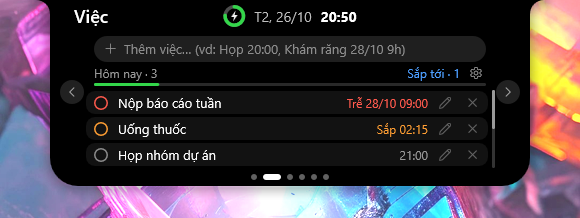
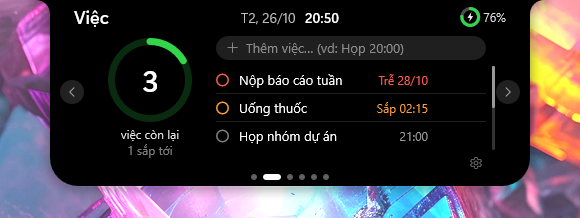
feat(tasks): the Tasks page as in the approved sample: a big progress ring with the count on the left, a flat list with hairlines on the right, edit and delete only on hover

diff --git a/src/render.rs b/src/render.rs
@@ -280,13 +280,14 @@ pub fn panel_size(page: Page) -> [f32; 2] {
 }
 /// Task list page.
 const INPUT_Y: f32 = 36.0;
-const INPUT_H: f32 = 26.0;
-const COUNT_Y: f32 = 66.0;
-const ROW_Y: f32 = 90.0;
-/// Under the counts: how much of today's list is done.
-const PROGRESS_Y: f32 = 83.0;
-/// A task row is also its tick, edit and delete buttons: 29 px high, drawn as a card.
-const ROW_H: f32 = 26.0;
+const INPUT_H: f32 = 24.0;
+/// The left column of the page (the ring of the day's progress and what it counts), then the
+/// right column (the add box and the list) from `LIST_X` on, as far as the content reaches.
+const HERO_W: f32 = 112.0;
+const LIST_X: f32 = HERO_W + 10.0;
+const ROW_Y: f32 = 66.0;
+/// A task is a plain row with a hairline under it, and its tick, edit and delete buttons: 28 px high.
+const ROW_H: f32 = 28.0;
 pub const LIST_ROWS: usize = 3;
 /// Weather page, logical px from the content's left / the panel's top. City line: the 24h and x
 /// buttons at its right end. Left block: the icon with the temperature beside it and the sky's
@@ -392,18 +393,20 @@ pub fn page_buttons(cx: f32, scale: f32, page: Page, rows: usize, scroll: usize,
     match page {
         Page::Music => out.extend(buttons(cx, scale, wide)),
         Page::Todo => {
-            out.push((Button::ListInput, r(cl, INPUT_Y, cw, INPUT_H)));
-            out.push((Button::ListClear, r(cl + cw - 26.0, INPUT_Y, 26.0, INPUT_H)));
-            out.push((Button::Gear(Card::Tasks), r(cl + cw - 20.0, COUNT_Y - 2.0, 20.0, 18.0)));
+            let (x0, rw) = (cl + LIST_X, cw - LIST_X);
+            out.push((Button::ListInput, r(x0, INPUT_Y, rw, INPUT_H)));
+            out.push((Button::ListClear, r(x0 + rw - 26.0, INPUT_Y, 26.0, INPUT_H)));
+            // The settings gear, small, under the last row.
+            out.push((Button::Gear(Card::Tasks), r(x0 + rw - 20.0, ROW_Y + ROW_H * LIST_ROWS as f32 + 4.0, 20.0, 18.0)));
             if settings == Some(Card::Tasks) {
-                out.push((Button::RemindStep(-1), r(cl + cw - 112.0, ROW_Y, 22.0, 22.0)));
-                out.push((Button::RemindStep(1), r(cl + cw - 24.0, ROW_Y, 22.0, 22.0)));
+                out.push((Button::RemindStep(-1), r(x0 + rw - 112.0, ROW_Y, 22.0, 22.0)));
+                out.push((Button::RemindStep(1), r(x0 + rw - 24.0, ROW_Y, 22.0, 22.0)));
             } else {
                 for (row, i) in (scroll..rows.min(scroll + LIST_ROWS)).enumerate() {
                     let y = ROW_Y + row as f32 * ROW_H;
-                    out.push((Button::ListToggle(i), r(cl, y, cw - 56.0, ROW_H)));
-                    out.push((Button::ListEdit(i), r(cl + cw - 54.0, y, 26.0, ROW_H)));
-                    out.push((Button::ListDelete(i), r(cl + cw - 26.0, y, 26.0, ROW_H)));
+                    out.push((Button::ListToggle(i), r(x0, y, rw - 56.0, ROW_H)));
+                    out.push((Button::ListEdit(i), r(x0 + rw - 54.0, y, 26.0, ROW_H)));
+                    out.push((Button::ListDelete(i), r(x0 + rw - 26.0, y, 26.0, ROW_H)));
                 }
             }
         }
@@ -562,6 +565,8 @@ const F_BADGE: usize = 11;
 const F_HEAD: usize = 12;
 const F_CLOCK: usize = 13;
 const F_CLOCK_BOLD: usize = 14;
+/// A page's big figure: the number in its ring.
+const F_FIGURE: usize = 15;
 /// Lyrics area beside the player, logical px: its top and bottom in the panel, the space each side
 /// of the thin divider after the player's controls, its right margin and its width. The margin
 /// stays wider than the pages' clip (PAGE_CLIP), with room for a last letter's ink past the box.
@@ -1184,6 +1189,7 @@ impl Renderer {
                 make(display, 18.0, DWRITE_FONT_WEIGHT_SEMI_BOLD)?,
                 make(display, 14.0, DWRITE_FONT_WEIGHT_NORMAL)?,
                 make(display, 14.0, DWRITE_FONT_WEIGHT_SEMI_BOLD)?,
+                make(display, 30.0, DWRITE_FONT_WEIGHT_SEMI_BOLD)?,
             ];
             self.fonts = Some((scale, set));
         }
@@ -2268,36 +2274,31 @@ impl Renderer {
                             }
                         }
                         Page::Todo => {
-                            draw_input(tr("Thêm việc… (vd: Họp 20:00, Khám răng 28/10 9h)", "Add a task… (e.g. Call 20:00, Dentist 28/10 9h)"))?;
+                            let (x0, xr) = (cl + LIST_X * s, cr);
+                            draw_input(tr("Thêm việc… (vd: Họp 20:00)", "Add a task… (e.g. Call 20:00)"))?;
                             let today = (lv.now / 10_000) as u32;
                             let (open, later) = if current { lv.counts } else { (0, 0) };
-                            let cy = COUNT_Y * s;
-                            text(&format!("{} · {open}", tr("Hôm nay", "Today")), F_LABEL, rect(cl, cy - 2.0 * s, cr, cy + 16.0 * s), lead, grey(0.6, a))?;
-                            text(&format!("{} · {later}", tr("Sắp tới", "Upcoming")), F_LABEL, rect(cl, cy - 2.0 * s, cr - 26.0 * s, cy + 16.0 * s), trail,
-                                if later > 0 { solid(BLUE, a) } else { grey(0.6, a) })?;
+                            // Left: the day's progress as a big ring with what is left in it.
+                            let hub = (cl + HERO_W / 2.0 * s, 80.0 * s);
+                            let done = v.todos.iter().filter(|t| t.done.is_some()).count();
+                            let frac = if v.todos.is_empty() { 0.0 } else { done as f32 / v.todos.len() as f32 };
+                            self.draw_ring_on(hub, 84.0 * s, 7.0 * s, frac, GREEN, color(GREEN.0 * 0.2, GREEN.1 * 0.2, GREEN.2 * 0.2, a), a)?;
+                            text(&open.to_string(), F_FIGURE, rect(hub.0 - 40.0 * s, hub.1 - 22.0 * s, hub.0 + 40.0 * s, hub.1 + 22.0 * s), center, grey(1.0, a))?;
+                            text(tr("việc còn lại", "tasks left"), F_LABEL, rect(cl, 126.0 * s, cl + HERO_W * s, 142.0 * s), center, grey(0.9, a))?;
+                            text(&format!("{later} {}", tr("sắp tới", "upcoming")), F_LABEL, rect(cl, 142.0 * s, cl + HERO_W * s, 158.0 * s), center, grey(0.5, a))?;
                             let open_set = settings == Some(Card::Tasks);
-                            // Progress of the list: done over all, a thin bar that fills as ticks are made.
-                            if !open_set && !v.todos.is_empty() {
-                                let done = v.todos.iter().filter(|t| t.done.is_some()).count();
-                                let (bt, bh) = (PROGRESS_Y * s, 3.0 * s);
-                                rt.FillRoundedRectangle(&rounded(rect(cl, bt, cr, bt + bh), bh / 2.0), &self.brush(grey(0.16, a))?);
-                                let frac = done as f32 / v.todos.len() as f32;
-                                if frac > 0.0 {
-                                    rt.FillRoundedRectangle(&rounded(rect(cl, bt, cl + (cr - cl) * frac, bt + bh), bh / 2.0), &self.brush(solid(GREEN, a))?);
-                                }
-                            }
                             if let Some(gb) = rect_of(Button::Gear(Card::Tasks)) {
                                 let hot = hovered == Some(Button::Gear(Card::Tasks));
-                                let (icon, c) = if open_set { (ICON_CHECK, solid(GREEN, a)) } else { (ICON_GEAR, grey(if hot { 1.0 } else { 0.6 }, a)) };
+                                let (icon, c) = if open_set { (ICON_CHECK, solid(GREEN, a)) } else { (ICON_GEAR, grey(if hot { 1.0 } else { 0.45 }, a)) };
                                 hover_disc(Button::Gear(Card::Tasks))?;
                                 micon("tasks-gear", icon, F_SMALL_ICON, gb, c)?;
                             }
                             if open_set {
-                                // Settings: the early reminder, stepped with − / +.
+                                // Settings: the early reminder, stepped with - / +.
                                 let y = ROW_Y * s;
-                                text(tr("Nhắc trước", "Remind before"), F_BODY, rect(cl, y, cr - 112.0 * s, y + 22.0 * s), lead, grey(0.9, a))?;
+                                text(tr("Nhắc trước", "Remind before"), F_BODY, rect(x0, y, xr - 112.0 * s, y + 22.0 * s), lead, grey(0.9, a))?;
                                 let value = if lv.remind_before == 0 { tr("Tắt", "Off").to_string() } else { format!("{} {}", lv.remind_before, tr("phút", "min")) };
-                                text(&value, F_BODY, rect(cr - 88.0 * s, y, cr - 26.0 * s, y + 22.0 * s), center, grey(1.0, a))?;
+                                text(&value, F_BODY, rect(xr - 88.0 * s, y, xr - 26.0 * s, y + 22.0 * s), center, grey(1.0, a))?;
                                 for (b, icon) in [(Button::RemindStep(-1), ICON_MINUS), (Button::RemindStep(1), ICON_PLUS)] {
                                     if let Some(sb) = rect_of(b) {
                                         rt.FillEllipse(&D2D1_ELLIPSE { point: Vector2 { X: (sb.left + sb.right) / 2.0, Y: (sb.top + sb.bottom) / 2.0 }, radiusX: 11.0 * s, radiusY: 11.0 * s },
@@ -2306,25 +2307,30 @@ impl Renderer {
                                     }
                                 }
                                 text(tr("Việc có giờ còn được nhắc đúng giờ", "Timed tasks also ring on time"), F_LABEL,
-                                    rect(cl, y + 26.0 * s, cr, y + 44.0 * s), lead, grey(0.5, a))?;
+                                    rect(x0, y + 26.0 * s, xr, y + 44.0 * s), lead, grey(0.5, a))?;
                             } else {
                                 if v.todos.is_empty() {
-                                    let mid = (cl + cr) / 2.0;
-                                    let ring = D2D1_ELLIPSE { point: Vector2 { X: mid, Y: (ROW_Y + 12.0) * s }, radiusX: 11.0 * s, radiusY: 11.0 * s };
+                                    let mid = (x0 + xr) / 2.0;
+                                    let ring = D2D1_ELLIPSE { point: Vector2 { X: mid, Y: (ROW_Y + 16.0) * s }, radiusX: 11.0 * s, radiusY: 11.0 * s };
                                     rt.DrawEllipse(&ring, &self.brush(grey(0.3, a))?, 1.5 * s, None);
-                                    text(ICON_CHECK, F_TINY_ICON, rect(mid - 11.0 * s, (ROW_Y + 1.0) * s, mid + 11.0 * s, (ROW_Y + 23.0) * s), center, grey(0.3, a))?;
-                                    text(tr("Chưa có việc nào", "No tasks yet"), F_BODY, rect(cl, (ROW_Y + 28.0) * s, cr, (ROW_Y + 46.0) * s), center, grey(0.7, a))?;
-                                    text(tr("Gõ vào ô trên rồi nhấn Enter", "Type above and press Enter"), F_LABEL, rect(cl, (ROW_Y + 46.0) * s, cr, (ROW_Y + 62.0) * s), center, grey(0.5, a))?;
+                                    text(ICON_CHECK, F_TINY_ICON, rect(mid - 11.0 * s, (ROW_Y + 5.0) * s, mid + 11.0 * s, (ROW_Y + 27.0) * s), center, grey(0.3, a))?;
+                                    text(tr("Chưa có việc nào", "No tasks yet"), F_BODY, rect(x0, (ROW_Y + 32.0) * s, xr, (ROW_Y + 50.0) * s), center, grey(0.7, a))?;
+                                    text(tr("Gõ vào ô trên rồi nhấn Enter", "Type above and press Enter"), F_LABEL, rect(x0, (ROW_Y + 50.0) * s, xr, (ROW_Y + 66.0) * s), center, grey(0.5, a))?;
                                 }
-                                for (b, br) in btns.iter() {
+                                let rows_on: Vec<_> = btns.iter().filter(|(b, _)| matches!(b, Button::ListToggle(_))).collect();
+                                for (n, (b, br)) in rows_on.iter().enumerate() {
                                     let Button::ListToggle(i) = *b else { continue };
                                     let Some(item) = v.todos.get(i) else { continue };
                                     let hot = row_hovered(i);
-                                    // Each task is a card; the colour of its tick and time says how soon it is due.
-                                    let card = rect(br.left - 8.0 * s, br.top + 1.0 * s, cr + 2.0 * s, br.bottom - 2.0 * s);
-                                    rt.FillRoundedRectangle(&rounded(card, 9.0 * s), &self.brush(grey(if hot { 0.13 } else { 0.07 }, a))?);
-                                    // Tick circle.
-                                    let d = 14.0 * s;
+                                    // A plain row: a hairline under it (not the last), the row under the mouse a touch lighter.
+                                    if hot {
+                                        rt.FillRoundedRectangle(&rounded(rect(br.left - 6.0 * s, br.top + 1.0 * s, xr + 2.0 * s, br.bottom - 1.0 * s), 8.0 * s), &self.brush(grey(0.08, a))?);
+                                    }
+                                    if n + 1 < rows_on.len() {
+                                        rt.FillRectangle(&rect(br.left, br.bottom - 1.0 * s, xr, br.bottom), &self.brush(grey(0.12, a))?);
+                                    }
+                                    // Tick circle, in the colour of how soon it is due.
+                                    let d = 13.0 * s;
                                     let (ccx, ccy) = (br.left + d / 2.0, (br.top + br.bottom) / 2.0);
                                     let circle = D2D1_ELLIPSE { point: Vector2 { X: ccx, Y: ccy }, radiusX: d / 2.0 - 0.75 * s, radiusY: d / 2.0 - 0.75 * s };
                                     let done = item.done.is_some();
@@ -2334,7 +2340,7 @@ impl Renderer {
                                     } else {
                                         let ring = match item.at {
                                             Some(at) if minutes(at) - minutes(lv.now) <= lv.remind_before.max(15) as i64 => time_color(at, false),
-                                            _ => grey(if hot { 0.85 } else { 0.55 }, a),
+                                            _ => grey(if hot { 0.85 } else { 0.5 }, a),
                                         };
                                         rt.DrawEllipse(&circle, &self.brush(ring)?, 1.5 * s, None);
                                     }
@@ -2348,6 +2354,8 @@ impl Renderer {
                                         // Urgency in words as well as colour: past due, or inside the early reminder.
                                         let left = minutes(at) - minutes(lv.now);
                                         let flag = if done { "" } else if left <= 0 { tr("Trễ", "Late") } else if left <= lv.remind_before.max(15) as i64 { tr("Sắp", "Soon") } else { "" };
+                                        // A task late from another day says the date only, so its words keep the room.
+                                        let when = if !flag.is_empty() && day != today { format!("{:02}/{:02}", day % 100, day / 100 % 100) } else { when };
                                         let label = if flag.is_empty() { when } else { format!("{flag} {when}") };
                                         let lw = width(&label, F_LABEL) + 4.0 * s;
                                         text(&label, F_LABEL, rect(br.right - lw, br.top, br.right - 2.0 * s, br.bottom), trail, time_color(at, done))?;
@@ -2361,7 +2369,10 @@ impl Renderer {
                                         let my = (br.top + br.bottom) / 2.0 + 0.5 * s;
                                         rt.FillRectangle(&rect(tb.left, my, tb.left + tw, my + 1.0 * s), &self.brush(grey(0.5, a))?);
                                     }
-                                    row_tools(i, hot)?;
+                                    // Edit and delete show only while the mouse is on the row.
+                                    if hot {
+                                        row_tools(i, hot)?;
+                                    }
                                 }
                                 scrollbar(v.todos.len(), LIST_ROWS, ROW_Y, ROW_H)?;
                             }
